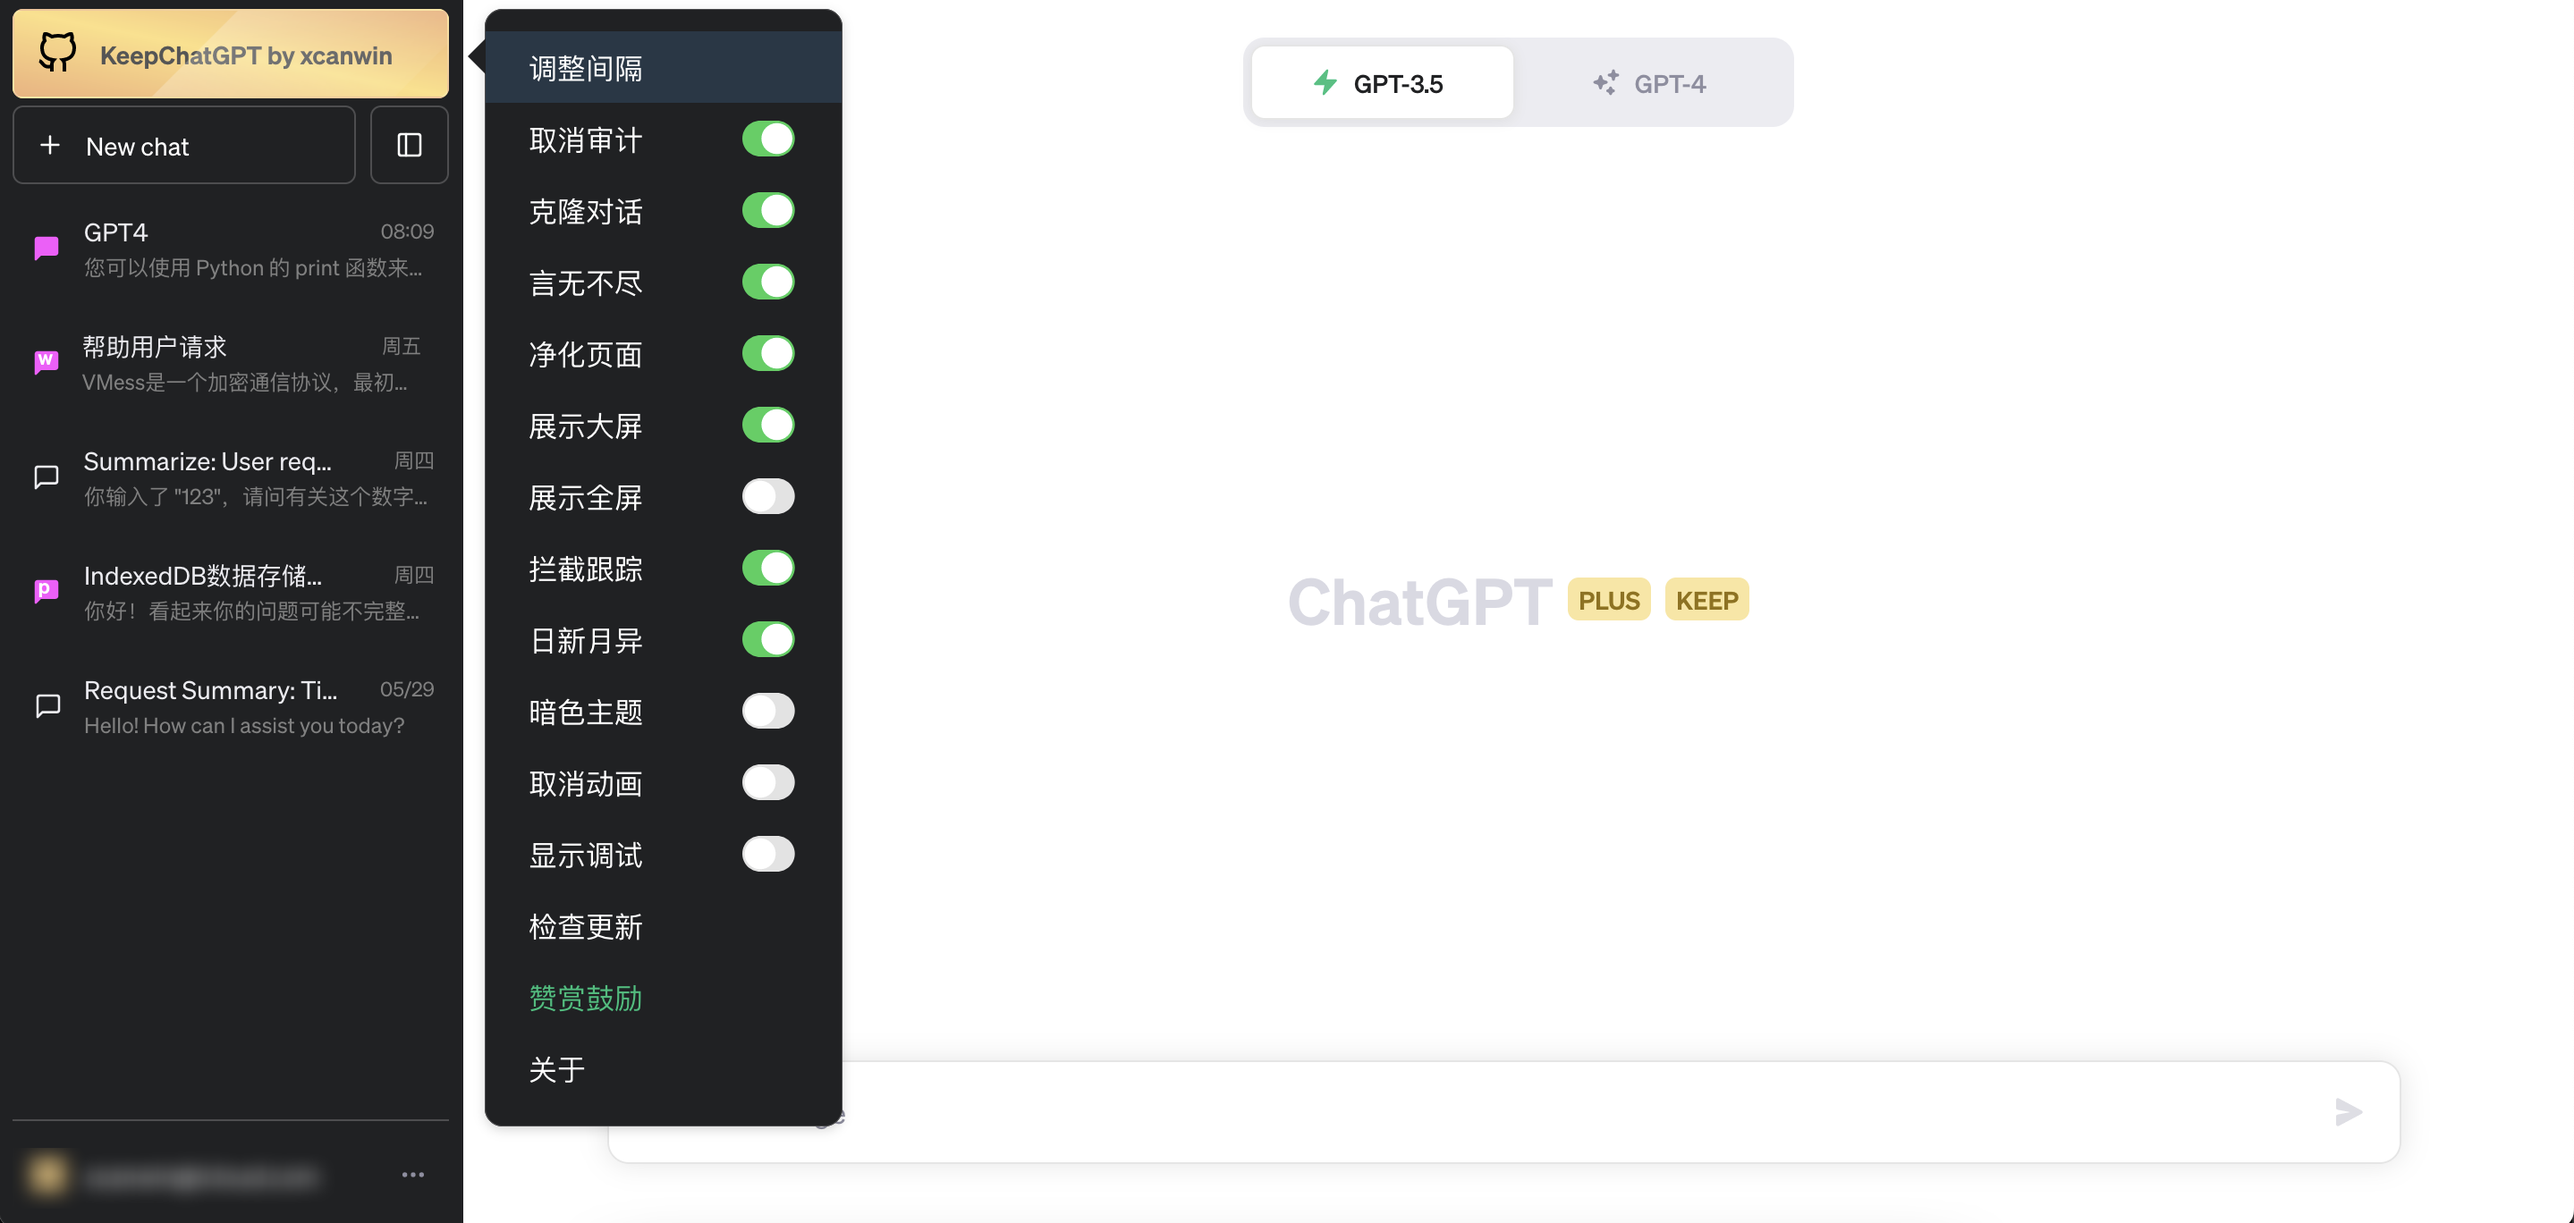
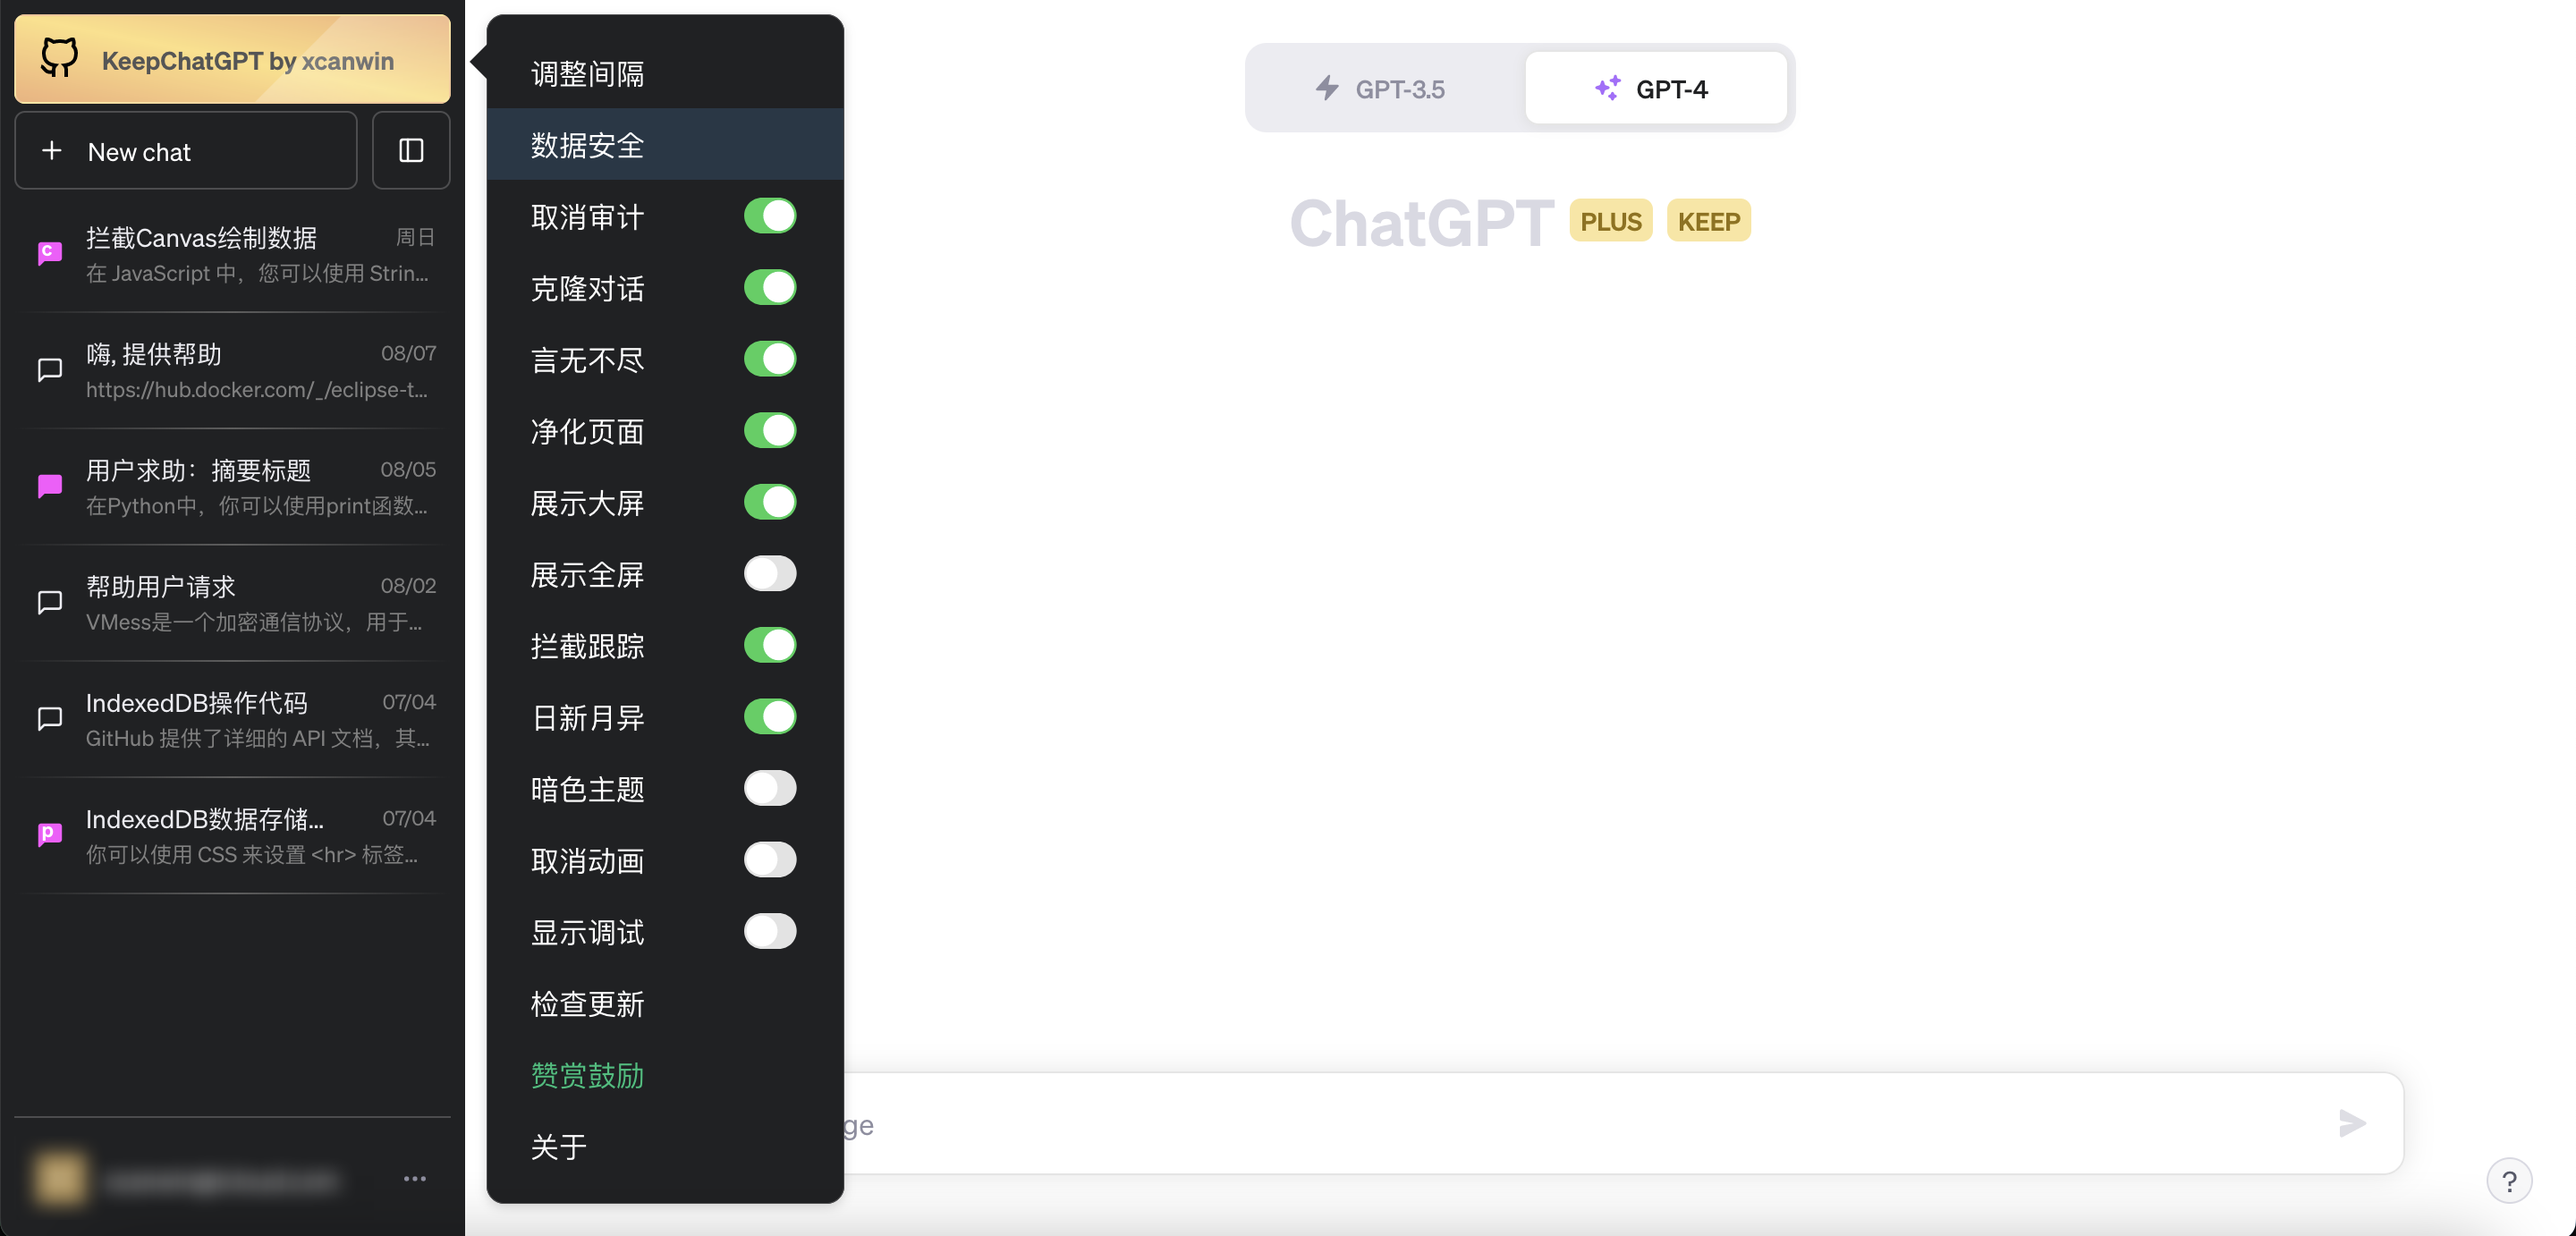
更新readme和展示图

diff --git a/README.md b/README.md
@@ -274,7 +274,7 @@
 4. 有的用户会谨慎地将含有敏感信息的文本复制粘贴到ChatGPT的聊天框后手工删除敏感信息。
 5. 以上3种行为都存在敏感信息被ChatGPT获取的数据安全风险。
 6. 为此，我开发```数据安全```功能，为大家提供全新的ChatGPT数据安全解决方案。
-7. 无论用户是有意地 还是不慎地 还是谨慎地，这个功能都会自动化清理敏感信息（脱敏），并且进行风险提示。
+7. 无论用户是有意地 还是不慎地 还是谨慎地，这个功能都会在用户发生数据安全风险之前，自动化清理敏感信息（脱敏），并且进行风险提示。
 8. 请根据正则表达式语法编写数据安全规则，不同的规则用换行间隔。
 9. 默认的数据安全规则还比较初级，需要大家自定义自己的规则。
 10. 大家还可以把自己的姓名、ID、公司名称、企业域名等作为规则。
@@ -286,12 +286,14 @@
 邮箱地址：admin@163.com
 ```
 
-会一瞬间被纠正成：
+会立刻被纠正为：
 ```
 手机号码：+86
 后台链接：/login
 邮箱地址：
 ```
+
+  <img src="/assets/warn_data_security.png" width="750"></img>
 
 ### 关于 其他错误 的原因和解决方案
 
